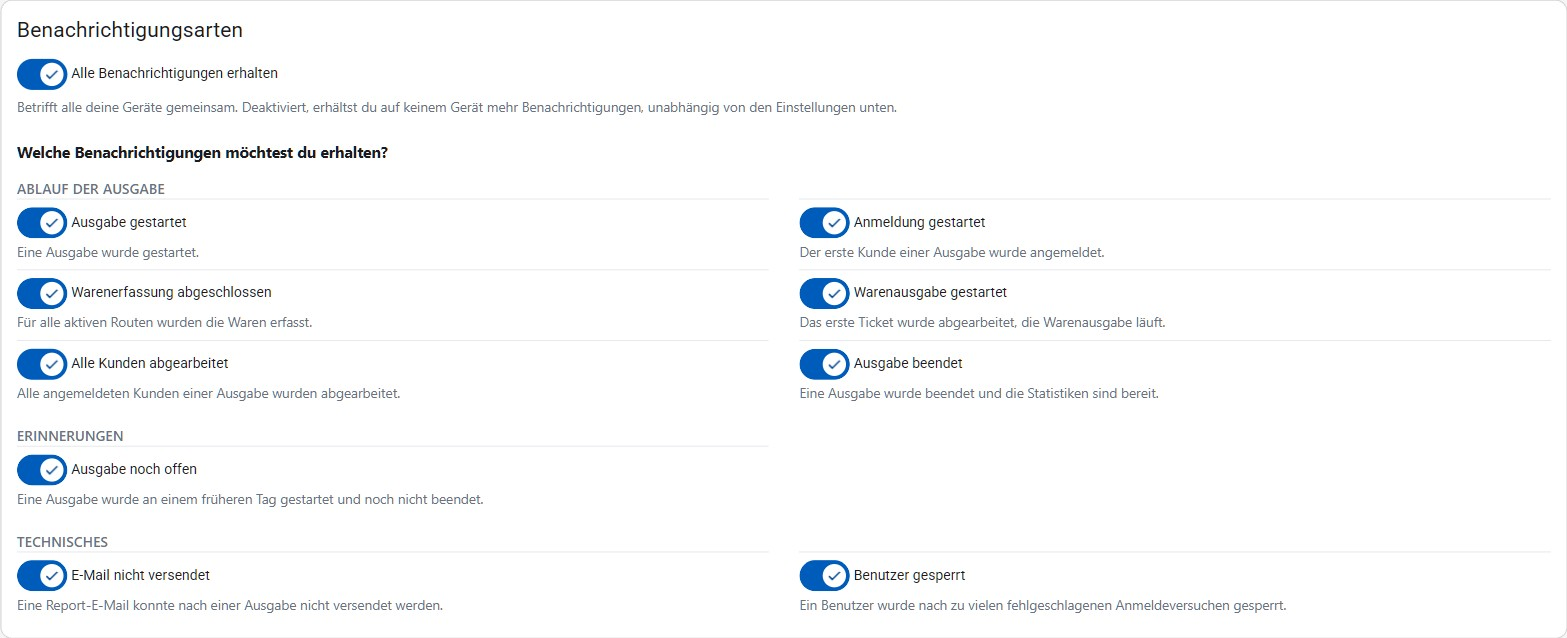
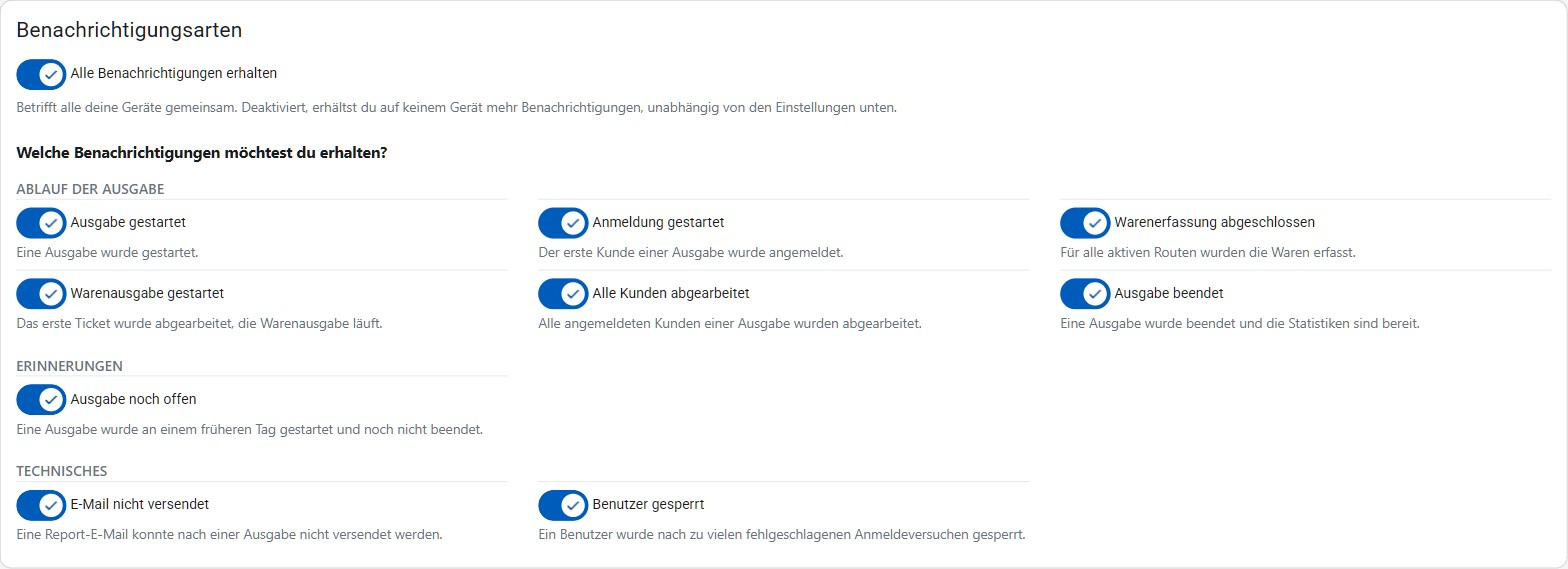
style(push): use three columns again so the notification types fit without scrolling

Changed region(s): [[0.0, 0.0299, 0.582, 0.9561], [0.3369, 0.3286, 0.8883, 0.6274], [0.3369, 0.8366, 0.8271, 0.9561]]

diff --git a/frontend/src/main/webapp/src/app/modules/user/components/push-notification-settings/push-notification-settings.component.html b/frontend/src/main/webapp/src/app/modules/user/components/push-notification-settings/push-notification-settings.component.html
@@ -117,12 +117,13 @@
               {{ group.title }}
             </div>
             <!--
-              Two columns rather than three: each entry carries a sentence of explanation under its
-              label, and the groups are small enough (six, one, two) that a third column would leave
-              most rows half empty. One column on phones, where two would leave neither the label nor
-              its description enough width.
+              Three columns on wide screens so the whole card fits on a laptop screen without
+              scrolling - two made it tall enough to push the last group below the fold, which costs
+              more than the trailing empty cells the small groups leave. Widens in steps because each
+              entry carries a sentence of explanation: one column on phones, two from medium, three
+              only once there is desktop width to keep those sentences from wrapping raggedly.
             -->
-            <div class="grid grid-cols-1 md:grid-cols-2 md:gap-x-8">
+            <div class="grid grid-cols-1 md:grid-cols-2 lg:grid-cols-3 md:gap-x-8">
               @for (typePreference of group.items; track typePreference.type) {
                 <div testid="push-type-preference" [attr.data-type]="typePreference.type" class="py-2 border-t border-gray-200">
                   <mat-slide-toggle
